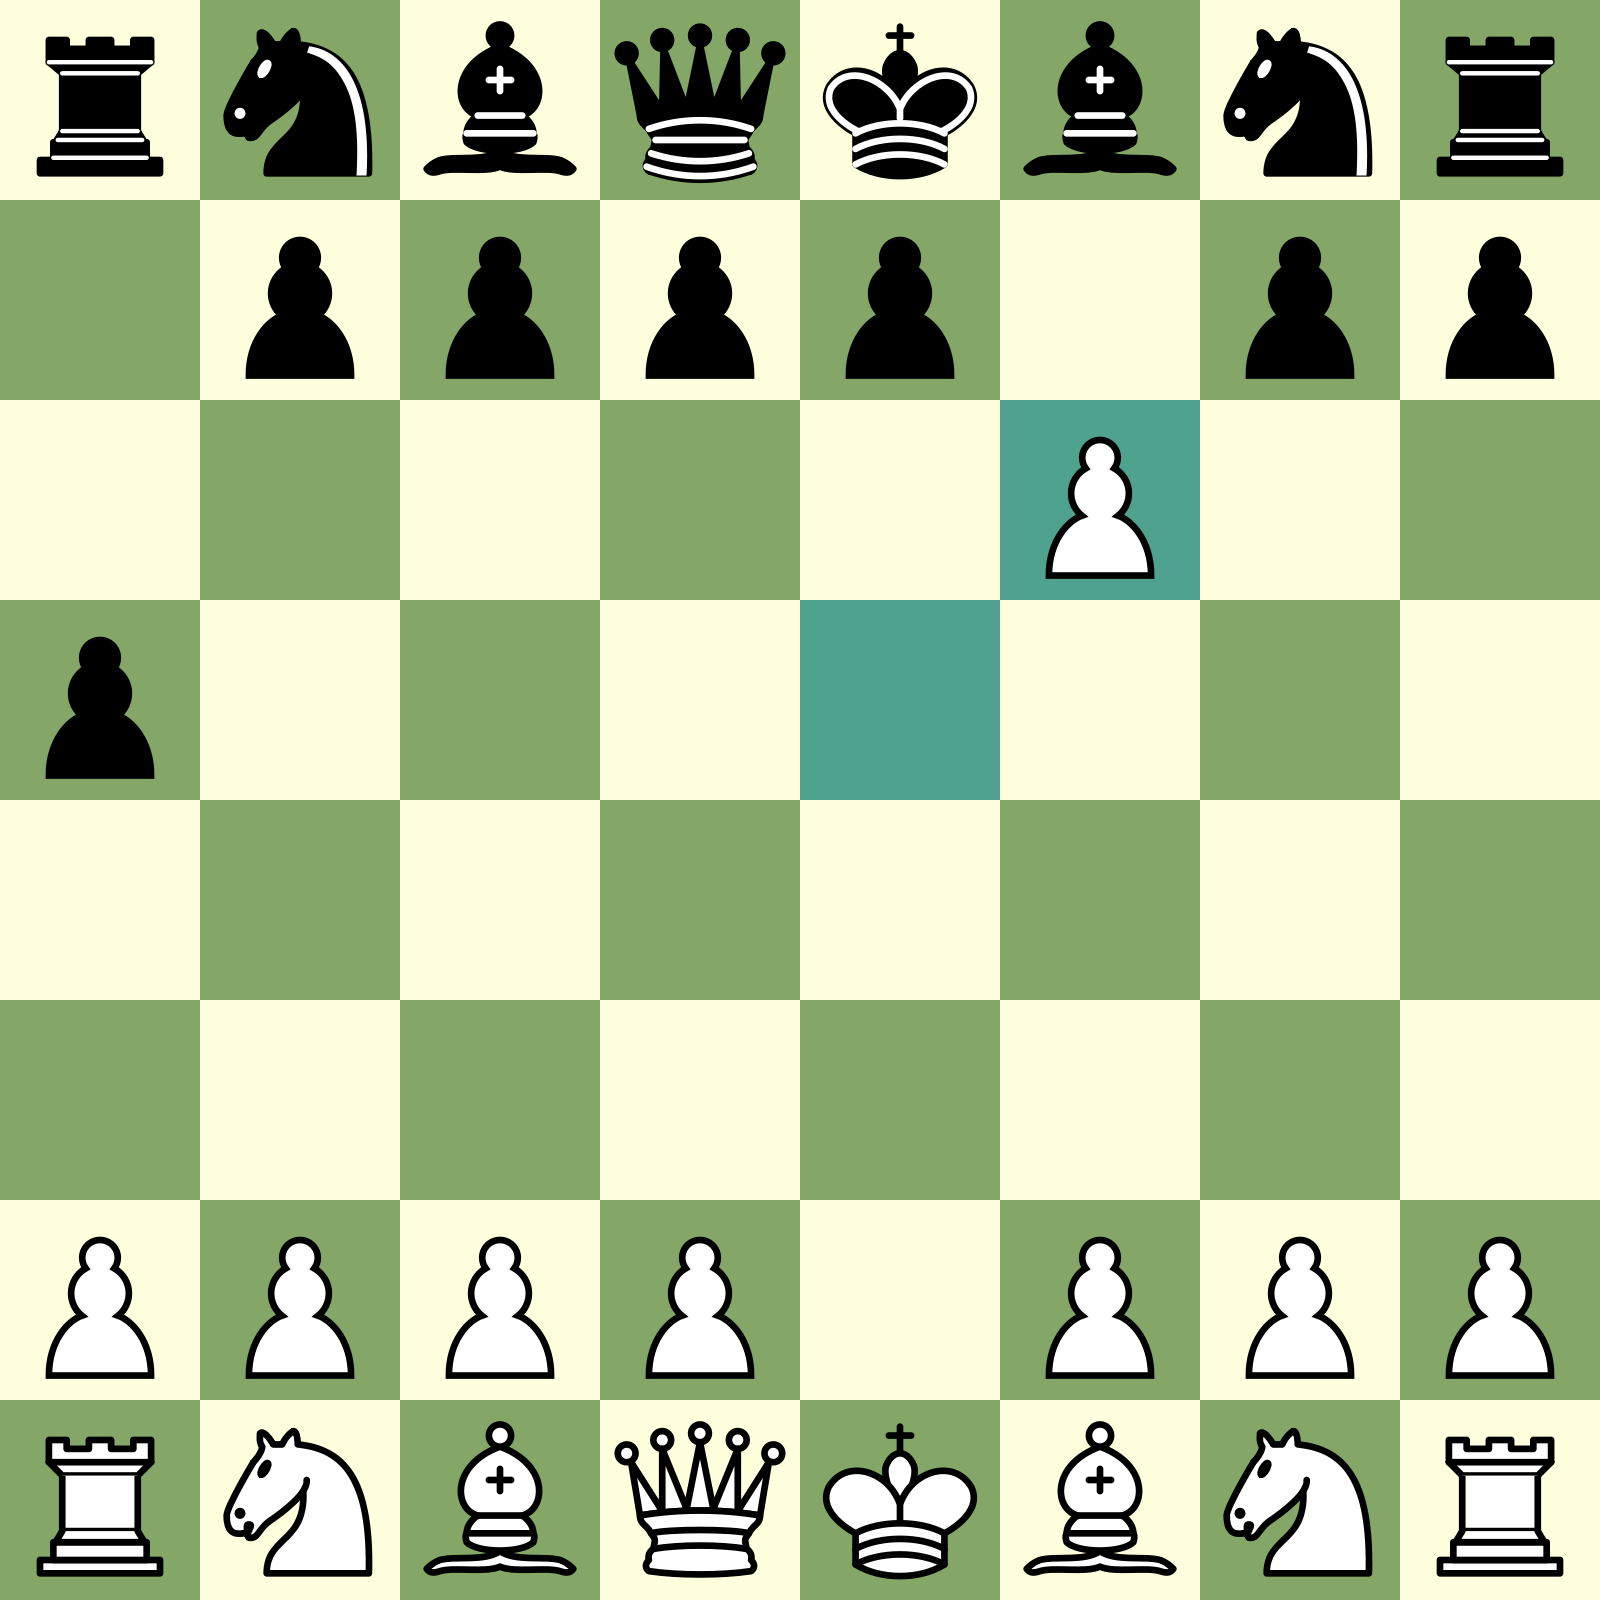
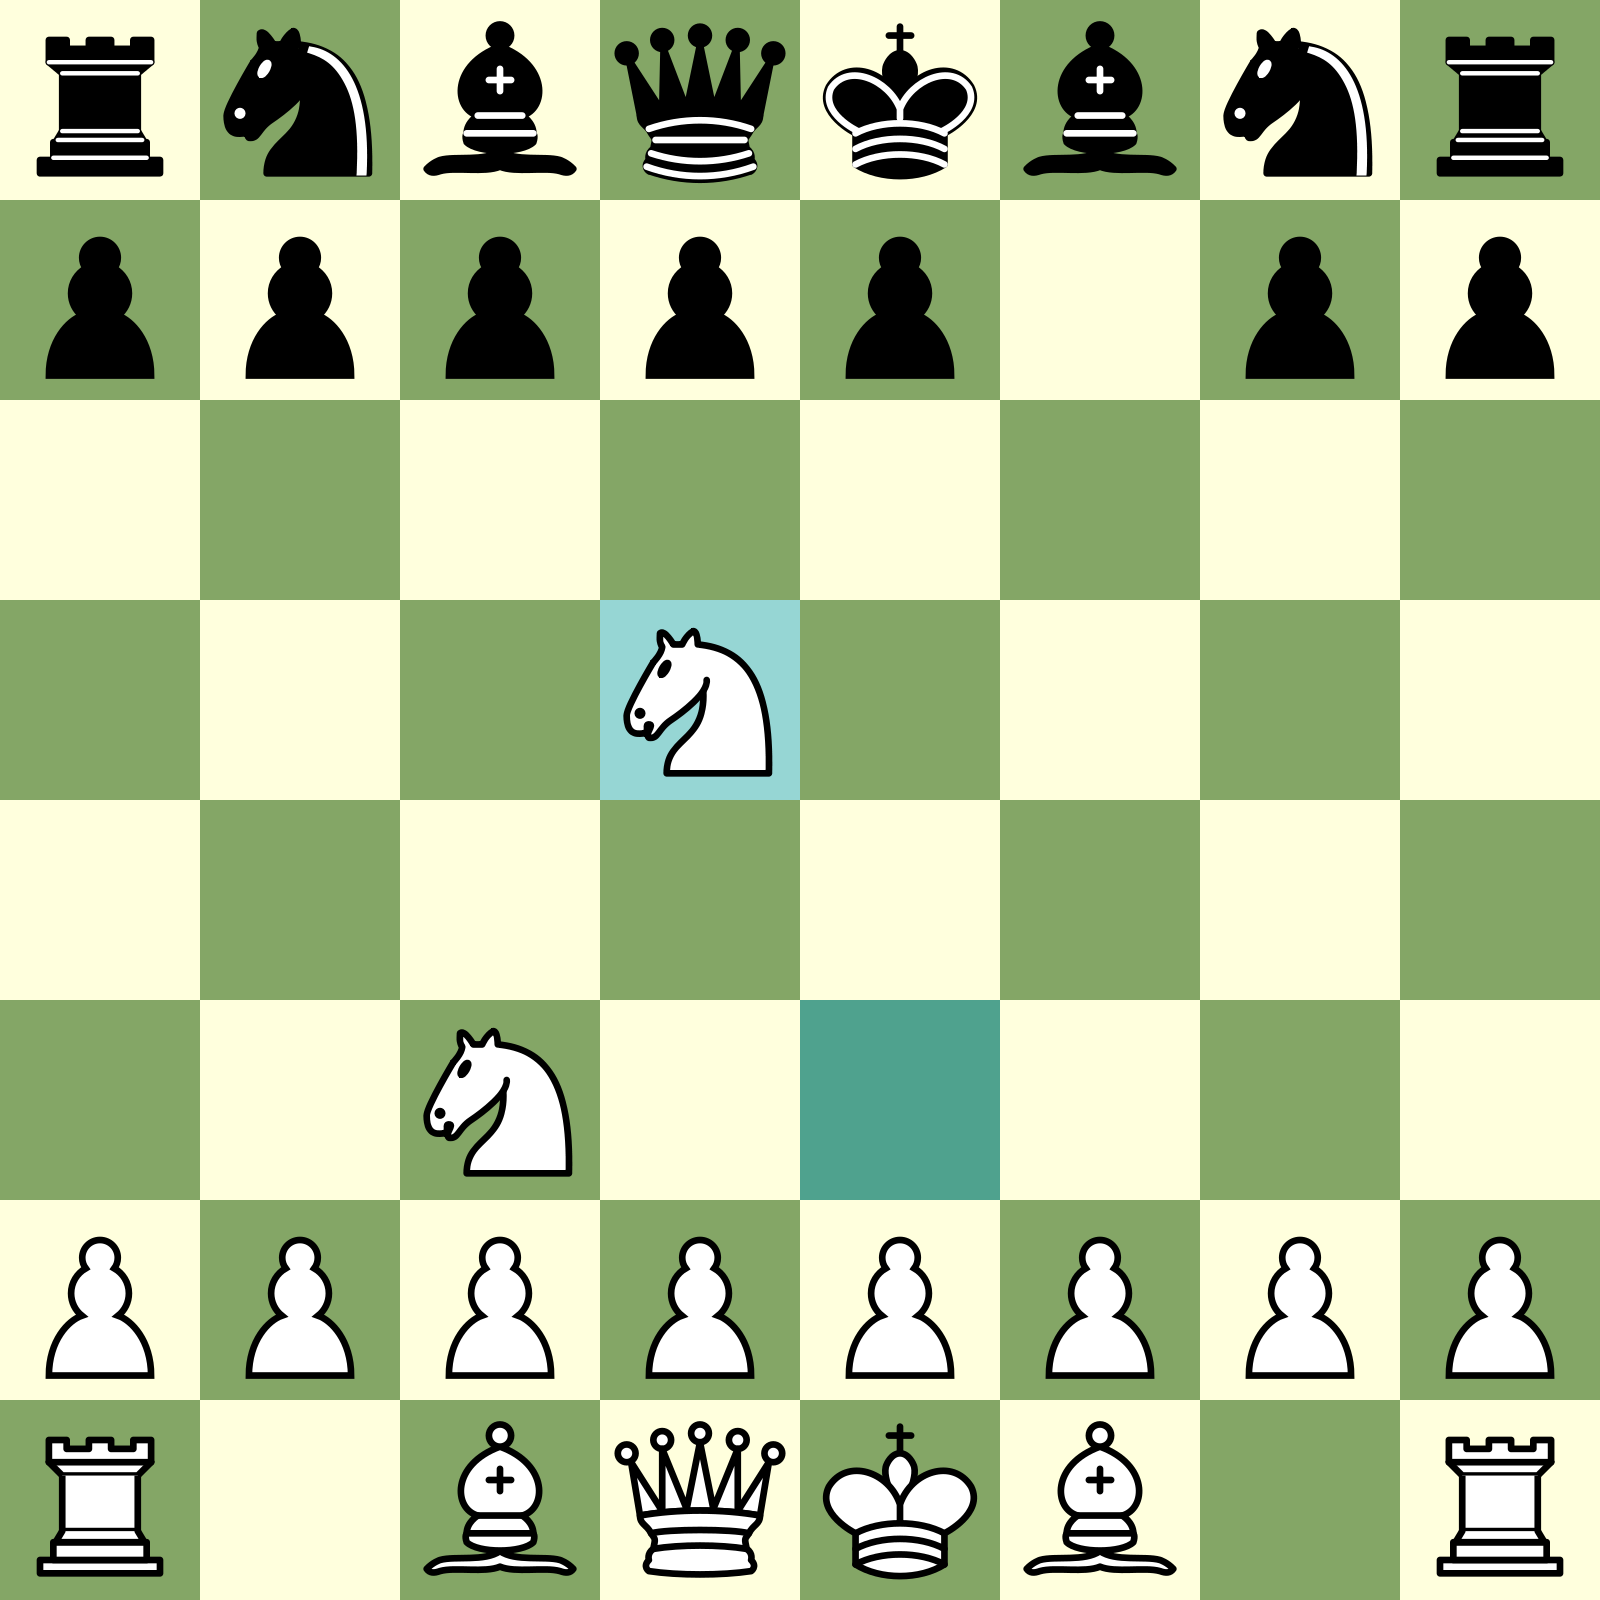
problem with rounding of cos and sin resolved

diff --git a/game.py b/game.py
@@ -89,31 +89,68 @@ class Game:
 			return (destination_row - 1, origin_column)
 
 	def find_rook(self, color, destination):
+		found = False
+		rook_coord = None
+
 		# going throw columns
 		for col in range(8):
 			piece = self.board[destination[0]][col]
-			if piece is not None and piece[1] == 'r' and ((self.is_piece_white(piece) and color == self.WHITE) 
-				or (self.is_piece_black(piece) and color == self.BLACK)):
-				return (destination[0], col)
+			if piece is not None and piece[1] == 'r' and self.get_piece_color(piece) == color:
+				if not found:
+					found = True
+					rook_coord = (destination[0], col)
+				else:
+					raise ValueError('Please inform which rook you want to move')
 
 		# going throw rows
 		for row in range(8):
 			piece = self.board[row][destination[1]]
-			if piece is not None and piece[1] == 'r' and ((self.is_piece_white(piece) and color == self.WHITE)
-				or (self.is_piece_black(piece) and color == self.BLACK)):
-				return (row, destination[1])
+			if piece is not None and piece[1] == 'r' and self.get_piece_color(piece) == color:
+				if not found:
+					found = True
+					rook_coord = (row, destination[1])
+				else:
+					raise ValueError('Please inform which rook you want to move')
 
-		raise Exception('Rook not found. Check for bugs')
+		if found:
+			return rook_coord
+		else:
+			raise Exception('Rook not found. Check for bugs')
 
 	def find_knight(self, color, destination):
-		raise Exception('Not implemented yet')
+		found = False
+		coords = []
+		i = 0
+		while i < 2 * pi:
+			row = destination[0] + 2 * int(cos(i)) + int(sin(i))
+			col = destination[1] + 2 * int(sin(i)) + int(cos(i))
+			if self.validate_coord_out_of_board((row, col)):
+				piece = self.board[row][col]
+				if piece is not None and piece[1] == 'n' and self.get_piece_color(piece) == color:
+					found = True
+					coords.append((row, col))
+
+			row = destination[0] + 2 * int(cos(i)) - int(sin(i))
+			col = destination[1] + 2 * int(sin(i)) - int(cos(i))
+			if self.validate_coord_out_of_board((row, col)):
+				piece = self.board[row][col]
+				if piece is not None and piece[1] == 'n' and self.get_piece_color(piece) == color:
+					found = True
+					coords.append((row, col))
+
+			i += pi / 2
+
+		if found:
+			return coords
+		else:
+			self.print_board()
+			raise ValueError('No knight was found')
 
 	def validate_move_generates_check(self, piece_coord, destination):
 		raise Exception('Not yet implemented')
 
 	def validate_coord_out_of_board(self, coord):
-		if coord[0] < 0 or coord[0] > 8 or coord[1] < 0 or coord[1] > 8:
-			raise ValueError('Coordinates out of boundries')
+		return 0 <= coord[0] <= 7 and 0 <= coord[1] <= 7
 
 	def validate_pawn_move(self, piece_coord, destination):
 		# destination and piece_coord: (row, column)
@@ -232,9 +269,6 @@ class Game:
 		if piece_coord[0] == destination[0] and piece_coord[1] == destination[1]:
 			raise ValueError("You can't move to the same square")
 
-		start = None
-		end = None
-
 		if piece_coord[0] == destination[0]:
 			# same row as destination
 			row = piece_coord[0]
@@ -280,25 +314,13 @@ class Game:
 			if 'x' in movement:
 				add = 1
 
+			is_capture = lambda move: 'x' in move
+
 			if movement[0] == 'R':
 				# rook
 				if self.is_normal_movement(movement, add):
 					# not in the same column or row
 					destination = (self.get_row(movement[2 + add]), self.get_column(movement[1 + add]))
-
-					count = 0
-					for row in range(8):
-						piece = self.board[row][destination[1]]
-						if piece is not None and piece[1] == 'r' and self.get_piece_color(piece) == self.turn:
-							count += 1
-					for col in range(8):
-						piece = self.board[destination[0]][col]
-						if piece is not None and piece[1] == 'r' and self.get_piece_color(piece) == self.turn:
-							count += 1
-
-					if count > 1:
-						raise ValueError('Please inform which rook you want to move')
-
 					piece_coord = self.find_rook(self.turn, destination)
 				elif self.is_same_row_movement(movement, add):
 					# in the same row
@@ -309,11 +331,9 @@ class Game:
 					# in the same column
 					destination = (self.get_row(movement[3 + add]), self.get_column(movement[2 + add]))
 					piece_coord = (self.get_row(movement[1]), self.get_column(movement[2 + add]))
-
 				else:
 					raise ValueError('Invalid movement')
 
-				is_capture = lambda move: 'x' in move
 				self.validate_rook_move(piece_coord, destination, is_capture(movement))
 			
 			elif movement[0] == 'N':
@@ -321,28 +341,52 @@ class Game:
 				if self.is_normal_movement(movement, add):
 					# not in the same row or column
 					destination = (self.get_row(movement[2 + add]), self.get_column(movement[1 + add]))
+					coords = self.find_knight(color=self.turn, destination=destination)
 
-					count = 0
-					i = 0
-					while i < 2 * pi:
-						row = int(destination[0] + 2 * cos(i) + sin(i))
-						col = int(destination[1] + 2 * sin(i) + cos(i))
-						if self.validate_coord_out_of_board((row, col)):
-							piece = self.board[row][col]
-							if piece is not None and piece[1] == 'n' and self.get_piece_color(piece) == self.turn:
-								count += 1
+					if len(coords) == 1:
+						piece_coord = coords[0]
+					else:
+						# checking for 0 already done in the find_knight function
+						raise ValueError('Please inform which one of the knights you want to move')
+				elif self.is_same_row_movement(movement, add):
+					# in the same row
+					destination = (self.get_row(movement[3 + add]), self.get_column(movement[2 + add]))
+					col = self.get_column(movement[1])
+					coords = self.find_knight(color=self.turn, destination=destination)
 
-						row = int(destination[0] + 2 * cos(i) - sin(i))
-						col = int(destination[1] + 2 * sin(i) - cos(i))
-						if self.validate_coord_out_of_board((row, col)):
-							piece = self.board[row][col]
-							if piece is not None and piece[1] == 'n' and self.get_piece_color(piece) == self.turn:
-								count += 1
+					if len(coords) == 1:
+						piece_coord = coords[0]
+					elif len(coords) == 2:
+						if coords[0][1] == col:
+							piece_coord = coords[0]
+						elif coords[1][1] == col:
+							piece_coord = coords[1]
+						else:
+							raise ValueError("Couldn't find a knight with the specified command")
+					else:
+						raise ValueError('The number of knights found is more than two:', len(coords))
+				elif self.is_same_col_movement(movement, add):
+					destination = (self.get_row(movement[3 + add]), self.get_column(movement[2 + add]))
+					row = self.get_row(movement[1])
+					coords = self.find_knight(color=self.turn, destination=destination)
 
-						i += pi/2
+					if len(coords) == 1:
+						piece_coord = coords[0]
+					elif len(coords) == 2:
+						if coords[0][0] == row:
+							piece_coord = coords[0]
+						elif coords[1][0] == row:
+							piece_coord = coords[1]
+						else:
+							raise ValueError("Couldn't find a knight with the specified command")
+					else:
+						raise ValueError('The number of knights found is more than two:', len(coords))
+				else:
+					raise ValueError('Invalid movement')
 
-				if count > 1:
-					raise ValueError('Please inform which rook you want to move')
+				print(piece_coord)
+
+
 
 		else:
 			# pawn
@@ -387,6 +431,6 @@ class Game:
 
 		self.moves.append(movement)
 
-		self.turn = not self.turn
+		#self.turn = not self.turn
 
 		return [piece_coord, destination]

diff --git a/main.py b/main.py
@@ -2,15 +2,19 @@ from game import Game
 from draw_board import draw_board
 
 def move_piece(movement):
-    input()
     res = game.move_piece(movement)
     draw_board(game.get_board(), origin_square=res[0], destination_square=res[1])
 
 game = Game()
 draw_board(game.get_board())
 
-move_piece('e4')
-move_piece('a5')
-move_piece('e5')
-move_piece('f5')
-move_piece('exf6')
+'''
+move_piece('Nh3')
+move_piece('Ng5')
+move_piece('Nf7')
+move_piece('Nd6')
+move_piece('Nc4')
+move_piece('Ne3')
+move_piece('Nc3')
+move_piece('Ned5')
+'''
